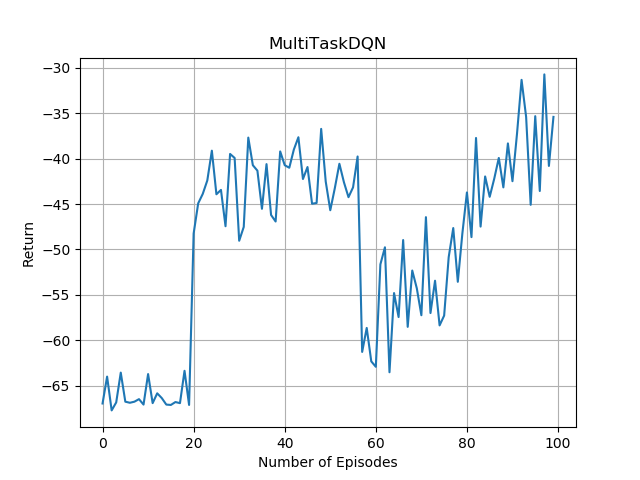
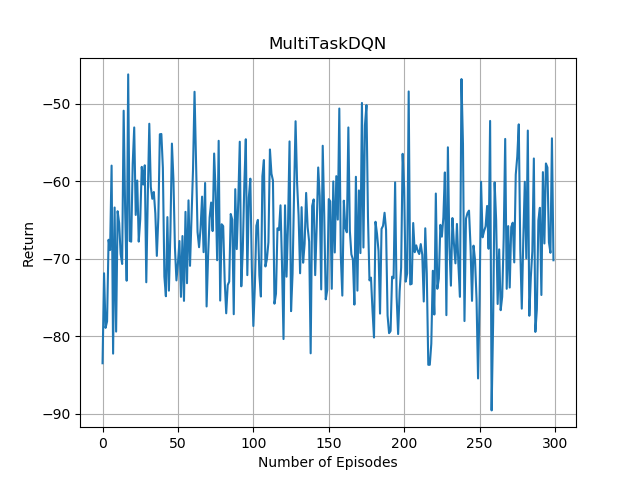
updated tests for dqn

diff --git a/test.py b/test.py
@@ -3,13 +3,16 @@ import gym_foo
 import gym_slider
 import matplotlib.pyplot as plt
 import numpy as np
-# import ipdb
+import torch
 
 from approaches.random_policy import RandomPolicyApproach
 from approaches.q_learning import SingleTaskQLearningApproach, MultiTaskQLearningApproach, SingleTaskAugmentedQLearningApproach, MultiTaskAugmentedQLearningApproach
-from approaches.dqn import SingleTaskDQN, MultiTaskDQN
+from approaches.dqn import SingleTaskDQN, MultiTaskDQN, SingleTaskAugmentedDQN, MultiTaskAugmentedDQN
 
-def test_single_approach(approach, rng, total_num_tasks=100):
+from test_env import max_returns
+
+num_tasks = 100
+def test_single_approach(approach, rng, total_num_tasks=num_tasks):
     results = []
     # task = gym.make('foo-v0')
     task = gym.make('slider-v0')
@@ -25,12 +28,16 @@ def run_approach_on_task(approach, task, rng, num_tasks):
     approach.reset(task.reward_function)
     # Result is a list of all rewards seen
     result = []
+    actions = []
     # count = 0
     # A list of all the states ever visited
     # all_states = [state]
     results = []
+    differences = []
+    targets = [task.target_velocity]
     while len(results) < num_tasks:
         action = approach.get_action(state)
+        actions.append(action)
         next_state, reward, done, _ = task.step(action)
         result.append(reward)
         # all_states.append(next_state)
@@ -41,12 +48,24 @@ def run_approach_on_task(approach, task, rng, num_tasks):
             # break
             state = task.reset(rng)
             approach.reset(task.reward_function)
+            targets.append(task.target_velocity)
             # reset environment without rerandomizing
             # allows agent to learn for longer
             # count += 1
             results.append(result)
+            diff = -1
+            if (actions[0] == 0 and task.target_velocity <= 0) or (actions[0] == 1 and task.target_velocity >= 0):
+                diff += 1
+            consistent = True
+            for a in actions:
+                if a != actions[0]:
+                    consistent = False
+            if consistent:
+                diff += 1 
+            differences.append(diff)
             result = []
-    return results
+            actions = []
+    return results, differences, targets[:-1]
     # , count
     # , all_states
 
@@ -54,7 +73,8 @@ def run_approach_on_task(approach, task, rng, num_tasks):
 if __name__ == "__main__":
     maximums = []
     minimums = []
-    for approach in ('SingleTaskDQN', 'MultiTaskDQN'):
+    for approach in ('SingleTaskDQN', 'MultiTaskDQN', 'SingleTaskAugmentedDQN', 'MultiTaskAugmentedDQN'):
+        print(approach)
     # ('Random Policy', 'Single Task', 'Multitask', 'Single Task with Hacking', 'Multitask with Hacking'):
         if approach == 'Random Policy':
             approach_fn = RandomPolicyApproach
@@ -73,28 +93,43 @@ if __name__ == "__main__":
             file = 'multitask_augmented.png'
         elif approach == 'SingleTaskDQN':
             approach_fn = SingleTaskDQN
-            file = 'single_dqn.png'
+            file = 'updated_reward_single_dqn.png'
         elif approach == 'MultiTaskDQN':
             approach_fn = MultiTaskDQN
-            file = 'multi_dqn.png'
+            file = 'updated_reward_multi_dqn.png'
+        elif approach == 'SingleTaskAugmentedDQN':
+            approach_fn = SingleTaskAugmentedDQN
+            file = 'updated_reward_single_augmented_dqn.png'
+        elif approach == 'MultiTaskAugmentedDQN':
+            approach_fn = MultiTaskAugmentedDQN
+            file = 'updated_reward_multi_augmented_dqn.png'
 
-        num_tasks = 100
         results = [0]*num_tasks
-        goals = [0]*num_tasks
+        goals = [0]*num_tasks 
+        
         # state_visits = np.zeros((4, 4))
         for i in range(25):
+            if i == 0:
+                difference = [0]*num_tasks #difference bw returns and target velocities
+
             rng = np.random.RandomState(i)
-            # rng random num generator
-            current = (test_single_approach(approach_fn, rng))
+            torch.manual_seed(i)
+            
+            rewards, differences, targets = (test_single_approach(approach_fn, rng))
+
             for j in range(num_tasks):
-                results[j] += sum(current[j])/25.0
+                episode_return = sum(rewards[j])
+                results[j] += episode_return/25.0
+
                 # goals[j] += current[j][1]/25.0
                 # for s in current[j][2]:
                 #     r, c = eval(s)
                 #     state_visits[r, c] += 1./25.0
 
+
         maximums.append(max(results))
         minimums.append(min(results))
+
 
         # Data for plotting
         x = range(num_tasks)
@@ -109,7 +144,41 @@ if __name__ == "__main__":
         ax.grid()
 
         fig.savefig(file)
-        # plt.show()
+
+        # plot with max return reference line
+        plt.clf()
+        z = []
+        final_results = [] # returns from 25th test
+        for i in range(len(rewards)):
+            target = targets[i]
+            for j in range(len(rewards[i])):
+                final_results.append(rewards[i][j])
+                z.append(max_returns[target])
+
+        x = range(1,len(final_results)+1)
+        plt.plot(x,final_results, label = 'results')
+        plt.plot(x,z, label = 'max returns')
+
+        plt.xlabel('Number of Steps')
+        plt.ylabel('Reward')
+        plt.title(approach)
+        # ax.set_ylim(ymax=40,ymin=-300)
+        # ax.grid()
+        plt.legend()
+        plt.savefig(file[:-4] + '_reference.png')
+
+        # plot of scores
+        x = range(num_tasks)
+        z = differences
+
+        fig, ax = plt.subplots()
+        ax.plot(x,z)
+
+        ax.set(xlabel='Number of Episodes', ylabel='Policy Scores',
+               title=approach)
+        ax.grid()
+
+        fig.savefig(file[:-4]+'_scores.png')
 
         # y = goals
 

diff --git a/approaches/dqn.py b/approaches/dqn.py
@@ -1,6 +1,7 @@
 from .approach import Approach
 from collections import defaultdict
 import numpy as np
+# import ipdb
 
 import torch
 import torch.nn as nn
@@ -99,10 +100,61 @@ class SingleTaskDQN(Approach):
         self.optimizer.step()
 
 
-
 class MultiTaskDQN(SingleTaskDQN):
     def __init__(self, *args, **kwargs):
         super().__init__(*args, **kwargs)
 
     def reset(self, reward_function):
         self.reward_function = reward_function
+
+
+class SingleTaskAugmentedDQN(SingleTaskDQN):
+    def __init__(self, *args, **kwargs):
+        super().__init__(*args, **kwargs)
+        self.num_states = 3
+
+        self.eval_net, self.target_net = Net(self.num_states, self.num_actions), Net(self.num_states, self.num_actions)
+        self.learn_step_counter = 0                                     # for target updating
+        self.memory_counter = 0                                         # for storing memory
+        self.memory = np.zeros((self.memory_capacity, self.num_states * 2 + 2))     # initialize memory
+        self.optimizer = torch.optim.Adam(self.eval_net.parameters(), lr=self.alpha)
+        self.loss_func = nn.MSELoss()
+
+    def get_action(self, state):
+        augmented_state = self.augment_state(state)
+        state = torch.unsqueeze(torch.FloatTensor(augmented_state), 0)
+        # input only one sample
+        if self.rng.uniform() < self.eps:   # greedy
+            actions_value = self.eval_net.forward(state)
+            action = torch.max(actions_value, 1)[1].data.numpy()
+            action = action[0] if self.env_shape == 0 else action.reshape(self.env_shape)  # return the argmax index
+        else:   # random
+            action = self.rng.randint(0, self.num_actions)
+            action = action if self.env_shape == 0 else action.reshape(self.env_shape)
+        return action
+
+    def observe(self, state, action, next_state, reward, done):
+        state = self.augment_state(state)
+        next_state = self.augment_state(next_state)
+        transition = np.hstack((state, [action, reward], next_state))
+        # replace the old memory with new memory
+        index = self.memory_counter % self.memory_capacity
+        self.memory[index, :] = transition
+        self.memory_counter += 1
+        if self.memory_counter > self.memory_capacity:
+            self.learn()
+
+    def augment_state(self, state):
+        # query = self.reward_function(20)
+        query = self.reward_function
+        # ipdb.set_trace()
+        return np.append(state, query)
+        
+
+class MultiTaskAugmentedDQN(SingleTaskAugmentedDQN):
+    def __init__(self, *args, **kwargs):
+        super().__init__(*args, **kwargs)
+
+    def reset(self, reward_function):
+        self.reward_function = reward_function
+

diff --git a/slider/gym_slider/envs/slider_env.py b/slider/gym_slider/envs/slider_env.py
@@ -19,15 +19,19 @@ class SliderEnv(gym.Env):
         self.viewer = None
         self.state = [0, 0]
         self.done = False
-        # self.action_space = [0, 1]
         self.action_space = spaces.Discrete(2)
         self.observation_space = spaces.Box(-1000, 1000, shape=(2,), dtype=np.float32)
         self.max_steps = 100
         self.step_count = 0
 
     def randomize_rewards(self, rng):
-        self.reward_function = (10, -1)
-        self.target_velocity = rng.randint(20,30)
+        self.target_velocity = rng.randint(-50,50)
+        # self.target_velocity = -100
+        def rewards(x):
+            if x == self.target_velocity:
+                return 10
+            return -1
+        self.reward_function = self.target_velocity
 
     def step(self, action):
         x, x_dot = self.state
@@ -39,17 +43,22 @@ class SliderEnv(gym.Env):
 
         self.state = [x, x_dot]
 
+        # self.done = bool(
+        #     x > (self.target_velocity - 3)
+        #     and x < (self.target_velocity + 3)
+        # )
+
         self.done = bool(
-            x > (self.target_velocity - 3)
-            and x < (self.target_velocity + 3)
+            x_dot > (self.target_velocity - 3)
+            and x_dot < (self.target_velocity + 3)
         )
 
         self.step_count += 1
 
         if self.done:
-            reward = self.reward_function[0]
+            reward = 10
         else:
-            reward = self.reward_function[1]
+            reward = -1 * (self.target_velocity - x_dot)**2
             if self.step_count >= self.max_steps:
                 self.done = True
         	

diff --git a/approaches/q_learning.py b/approaches/q_learning.py
@@ -19,12 +19,8 @@ class SingleTaskQLearningApproach(Approach):
 
     def get_action(self, state):
         # Epsilon-greedy: take a random action with probability eps
-        # if np.random.random() < self.eps:
         if self.rng.random() < self.eps:
-            # return self.action_space.sample()
-            # index = randint(0,3) # hacky! fix action space
-            # return self.action_space[index]
-            return self.action_space[self.rng.randint(0,4)]
+            return self.action_space[self.rng.randint(0,4)] # hacky! fix action space
         # Find action with max return in given state
         return self.action_space[np.argmax(self.Q[state])] 
 
@@ -48,12 +44,8 @@ class MultiTaskQLearningApproach(SingleTaskQLearningApproach):
 class SingleTaskAugmentedQLearningApproach(SingleTaskQLearningApproach):
     def get_action(self, state):
         # Epsilon-greedy: take a random action with probability eps
-        # if np.random.random() < self.eps:
         if self.rng.random() < self.eps:
-            # return self.action_space.sample()
-            # index = randint(0,3) # hacky! fix action space
-            # return self.action_space[index]
-            return self.action_space[self.rng.randint(0,4)]
+            return self.action_space[self.rng.randint(0,4)] # hacky! fix action space
         # Find action with max return in given state
         return self.action_space[np.argmax(self.Q[self.augment_state(state)])] 
 

diff --git a/test_env.py b/test_env.py
@@ -1,0 +1,30 @@
+import gym
+import gym_slider
+import numpy as np
+
+env = gym.make('slider-v0')
+max_returns = {}
+
+for i in range(-50,50):
+    rng = np.random.RandomState(np.random.randint(0,100))
+    env.reset(rng)
+    env.target_velocity = i
+    done = False
+    returns = 0
+    count = 0
+    while not done:
+        count += 1
+        if env.target_velocity > 0:
+            action = 1
+        else:
+            action = 0
+        x = env.step(action)
+        # print(x)
+        done = x[2]
+        returns += x[1]
+        # print(x[1])
+    # print(count)
+    max_returns[i] = returns
+    # print(env.target_velocity, returns)
+
+# print(max_returns)
